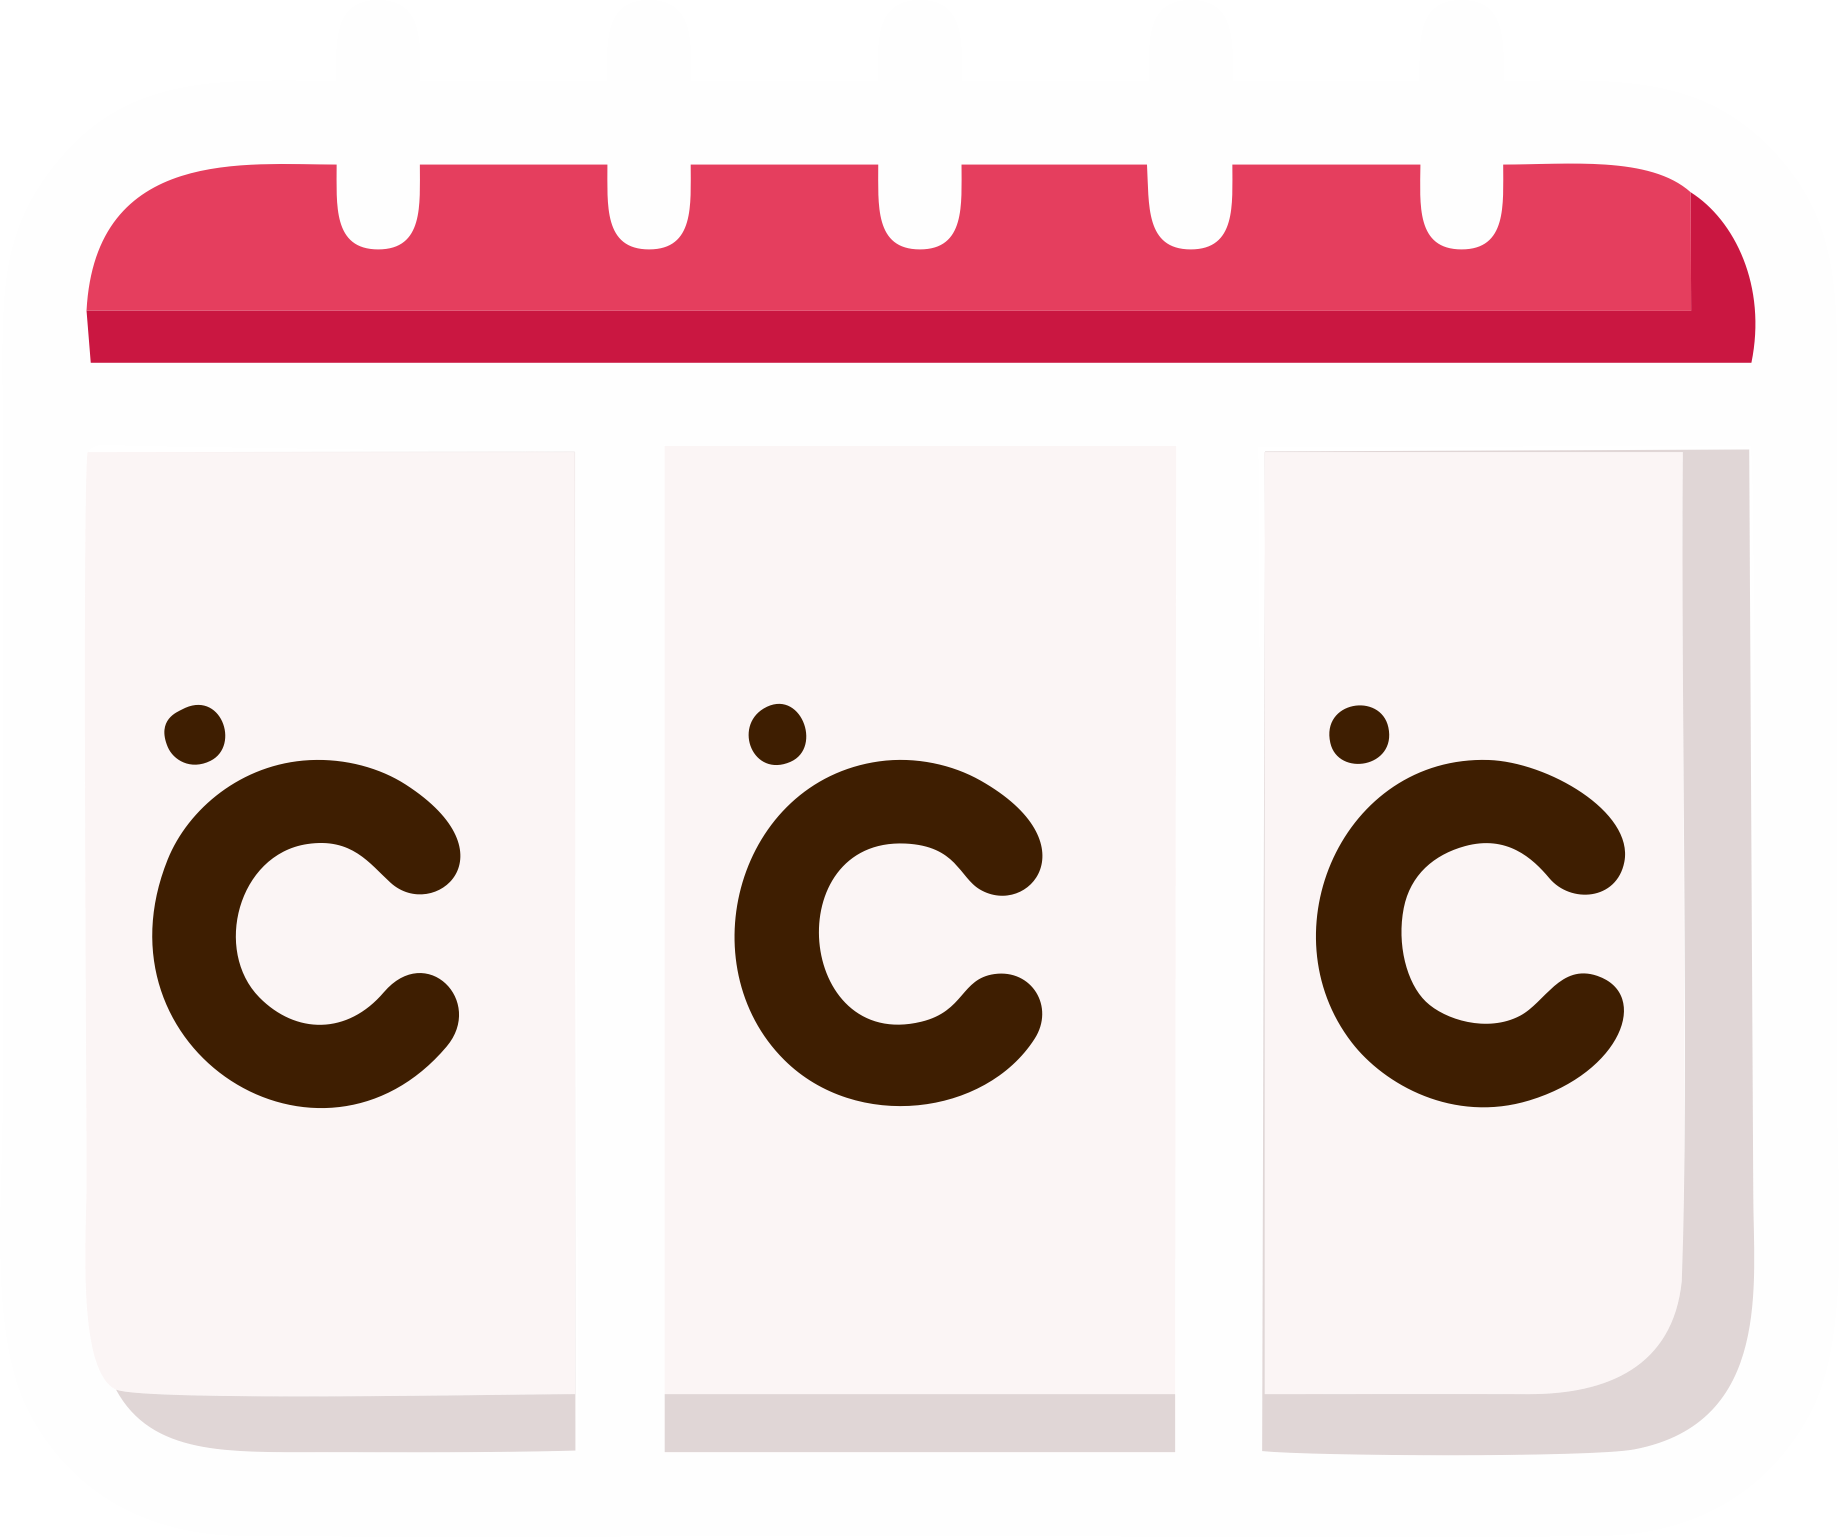
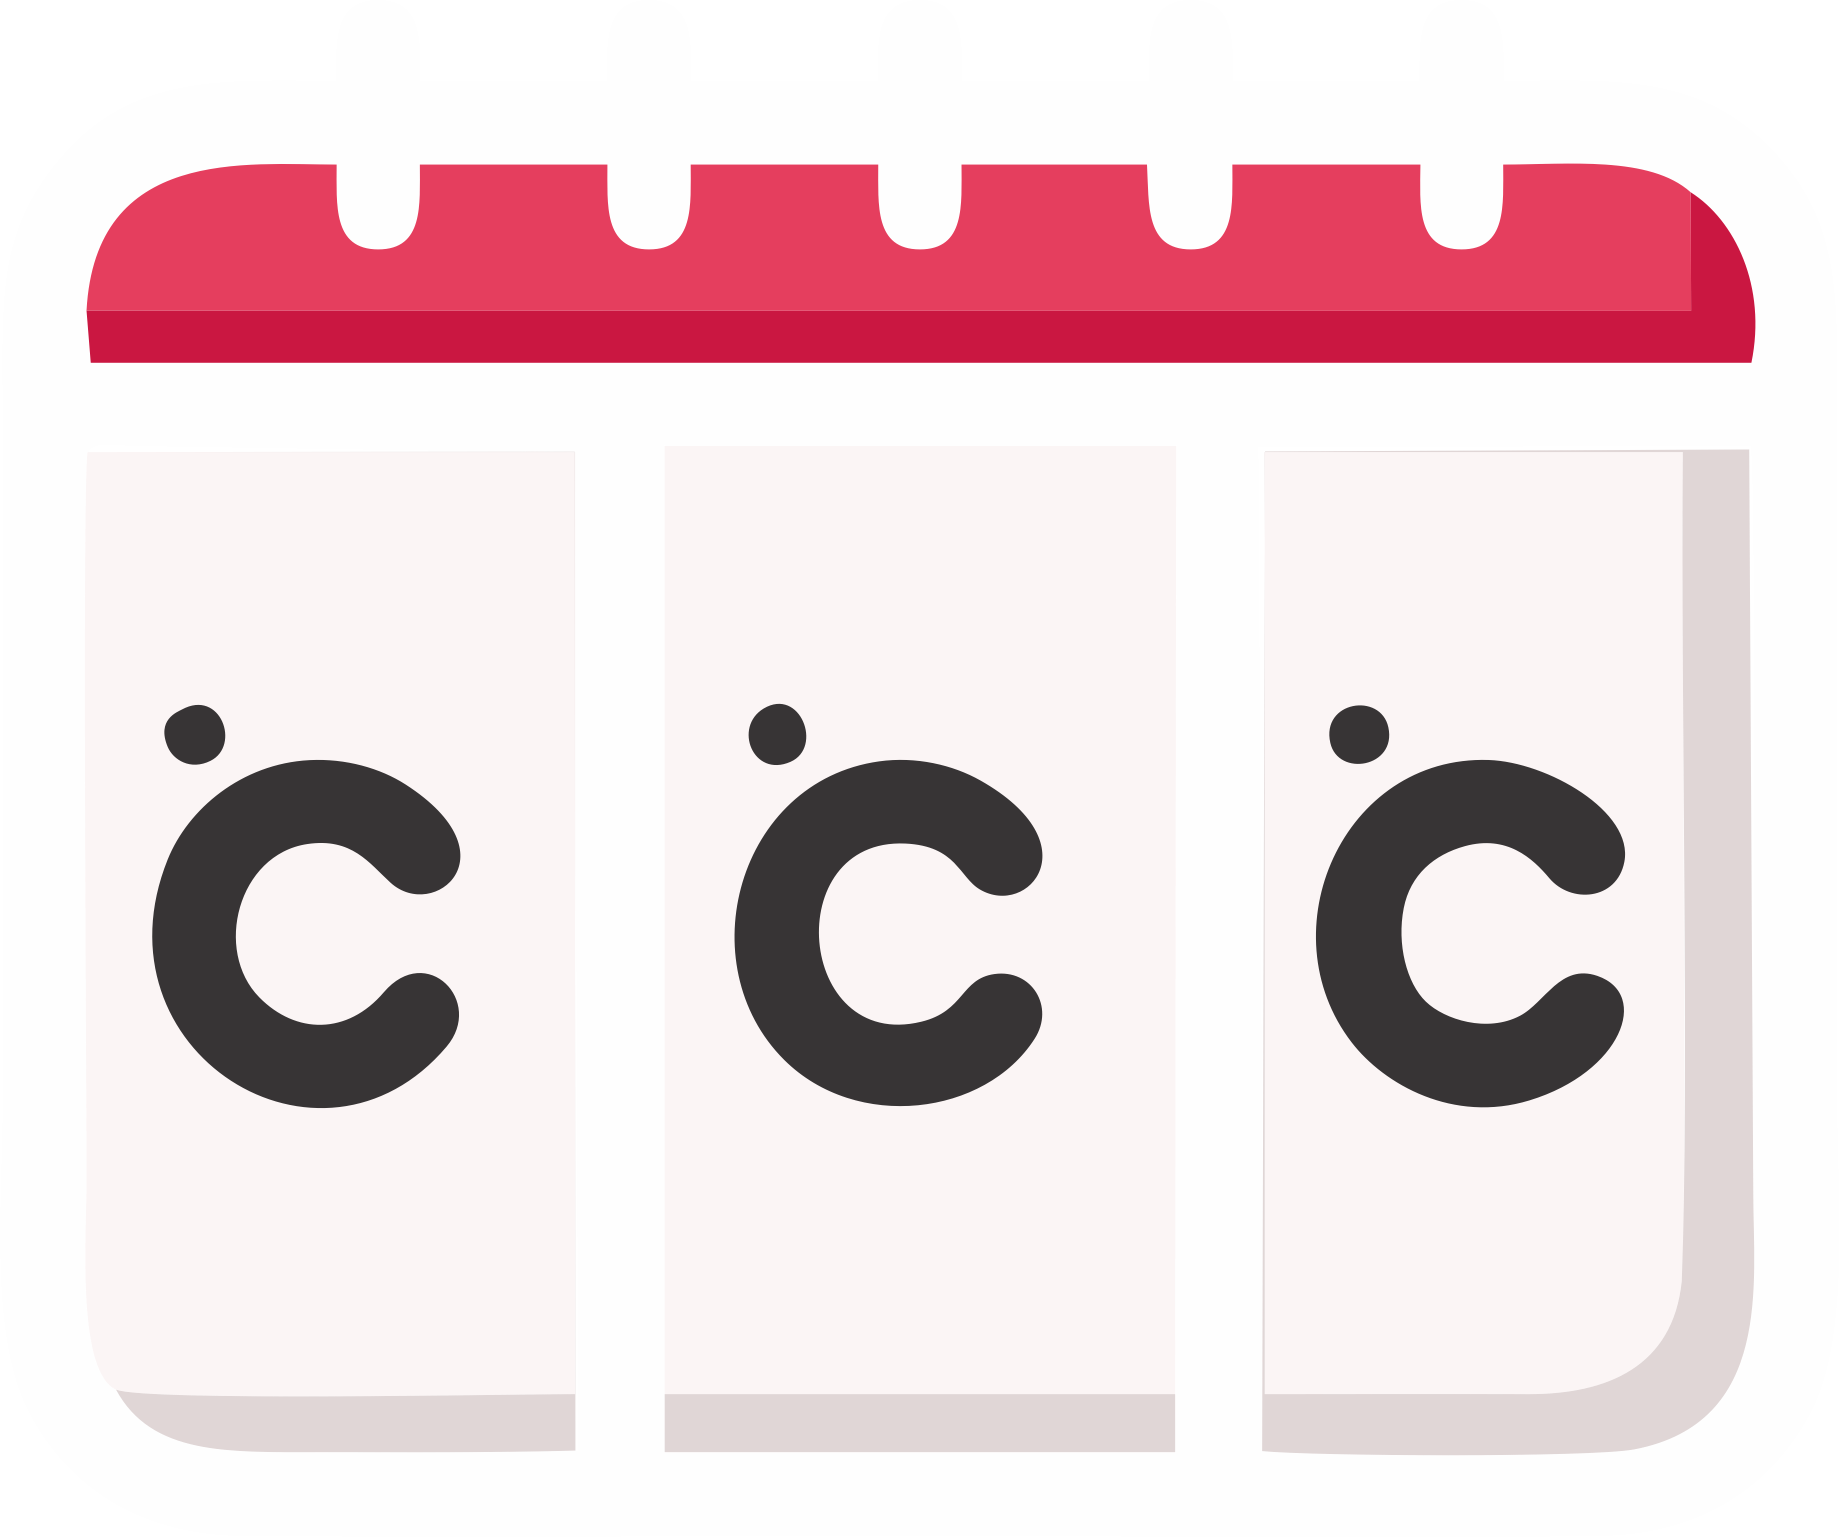
Update forecast display and spacing for news and weather items
Replaced the temperature emoji with the CN Tower icon for Toronto forecasts, updated the forecast icon, and added a separator to visually align forecast items with news stories.

Replit-Commit-Author: Agent
Replit-Commit-Session-Id: 27d61aec-8112-4618-aa1c-a3233d95e4e2
Replit-Commit-Checkpoint-Type: full_checkpoint
Replit-Commit-Event-Id: a95ad6b5-8826-4e55-b555-13ab0ea48af7
Replit-Commit-Screenshot-Url: https://storage.googleapis.com/screenshot-production-us-central1/a0c66905-cda9-4d99-8753-e071287d758d/27d61aec-8112-4618-aa1c-a3233d95e4e2/P3rVsvm
Replit-Helium-Checkpoint-Created: true

diff --git a/client/src/pages/dashboard.tsx b/client/src/pages/dashboard.tsx
@@ -28,7 +28,8 @@ import rawStoryLogoPath from "@assets/Raw_Story_1773607642361.png";
 import abcNewsLogoPath from "@assets/ABC_1773609250051.png";
 import weatherAlertLogoPath from "@assets/Weather_Alert_1773608511887.png";
 import bbcNewsLogoPath from "@assets/BBC_1773609711103.png";
-import forecastIconPath from "@assets/Forecast_1773897886106.png";
+import forecastIconPath from "@assets/Forecast2_1773897989398.png";
+import cnTowerPath from "@assets/CN2_1773897525570.png";
 import foxNewsLogoPath from "@assets/Fox_News_1773610204651.png";
 import dashboardBg from "@assets/BG2_1769977873184.jpg";
 import celebrationAnimoji from "@assets/Animoji_1769350617739.webp";
@@ -359,7 +360,7 @@ function NewsTickerPortal({ headlines }: { headlines: Array<{ title: string; lin
       }
       if (item.source === '_FORECAST_') {
         const forecastHtml = item.title.replace(/(<b>[^<]*<\/b>:?)/, '<span style="color:rgb(0,255,0);text-shadow:0 0 4px rgba(0,255,0,0.3)">$1</span>');
-        return `<span class="inline-flex items-center gap-1.5 mx-4" data-testid="weather-forecast-${i}"><span class="text-[13px] font-semibold text-white/95">${forecastHtml}</span></span>`;
+        return `<span class="inline-flex items-center gap-1.5 mx-4" data-testid="weather-forecast-${i}"><span class="text-[13px] font-semibold text-white/95">${forecastHtml}</span><span class="text-white/20 mx-2">|</span></span>`;
       }
       const logoInfo = TICKER_LOGO_MAP[item.source];
       const logoHtml = logoInfo
@@ -13223,7 +13224,7 @@ export default function Dashboard() {
           const WMO_DESC: Record<number, string> = { 0:'Clear',1:'Mainly Clear',2:'Partly Cloudy',3:'Overcast',45:'Fog',48:'Rime Fog',51:'Light Drizzle',53:'Drizzle',55:'Heavy Drizzle',61:'Light Rain',63:'Rain',65:'Heavy Rain',66:'Freezing Rain',67:'Heavy Freezing Rain',71:'Light Snow',73:'Snow',75:'Heavy Snow',77:'Snow Grains',80:'Light Showers',81:'Showers',82:'Heavy Showers',85:'Light Snow Showers',86:'Heavy Snow Showers',95:'Thunderstorm',96:'Thunderstorm w/ Hail',99:'Severe Thunderstorm' };
           const desc = WMO_DESC[weatherData.code] || 'Mixed';
           const items: { title: string; source: string; link: string }[] = [];
-          items.push({ title: `🌡 <b>TORONTO FORECAST</b>: ${Math.round(weatherData.temp)}°C — ${desc}  |  Wind: ${Math.round(weatherData.windSpeed)} km/h`, source: '_FORECAST_', link: '' });
+          items.push({ title: `<img src="${cnTowerPath}" style="height:23px;width:auto;display:inline-block;vertical-align:middle;margin-right:4px" /><b>TORONTO FORECAST</b>: ${Math.round(weatherData.temp)}°C — ${desc}  |  Wind: ${Math.round(weatherData.windSpeed)} km/h`, source: '_FORECAST_', link: '' });
           if (weatherData.daily && weatherData.daily.length >= 3) {
             const dayNames = ['Sun','Mon','Tue','Wed','Thu','Fri','Sat'];
             const forecastParts = weatherData.daily.slice(0, 3).map(d => {

diff --git a/server/routes.ts b/server/routes.ts
@@ -1894,7 +1894,7 @@ iframe{width:100vw;height:100vh;border:none;position:fixed;top:0;left:0}
         const temp = Math.round(c.temperature_2m);
         const desc = WMO[c.weather_code as number] || 'Mixed';
         const wind = Math.round(c.wind_speed_10m);
-        tickerItems += `<span class="t-item"><span class="t-forecast">🌡 <b>TORONTO FORECAST</b>:</span> <span class="t-data">${temp}°C — ${desc}  |  Wind: ${wind} km/h</span></span>`;
+        tickerItems += `<span class="t-item"><span class="t-forecast"><img src="/cn-tower.png" style="height:1.2em;width:auto;display:inline-block;vertical-align:middle;margin-right:4px" /> <b>TORONTO FORECAST</b>:</span> <span class="t-data">${temp}°C — ${desc}  |  Wind: ${wind} km/h</span></span>`;
         if (wxRes.daily && wxRes.daily.time && wxRes.daily.time.length >= 3) {
           const parts = wxRes.daily.time.slice(0, 3).map((t: string, i: number) => {
             const dt = new Date(t + 'T12:00:00');
